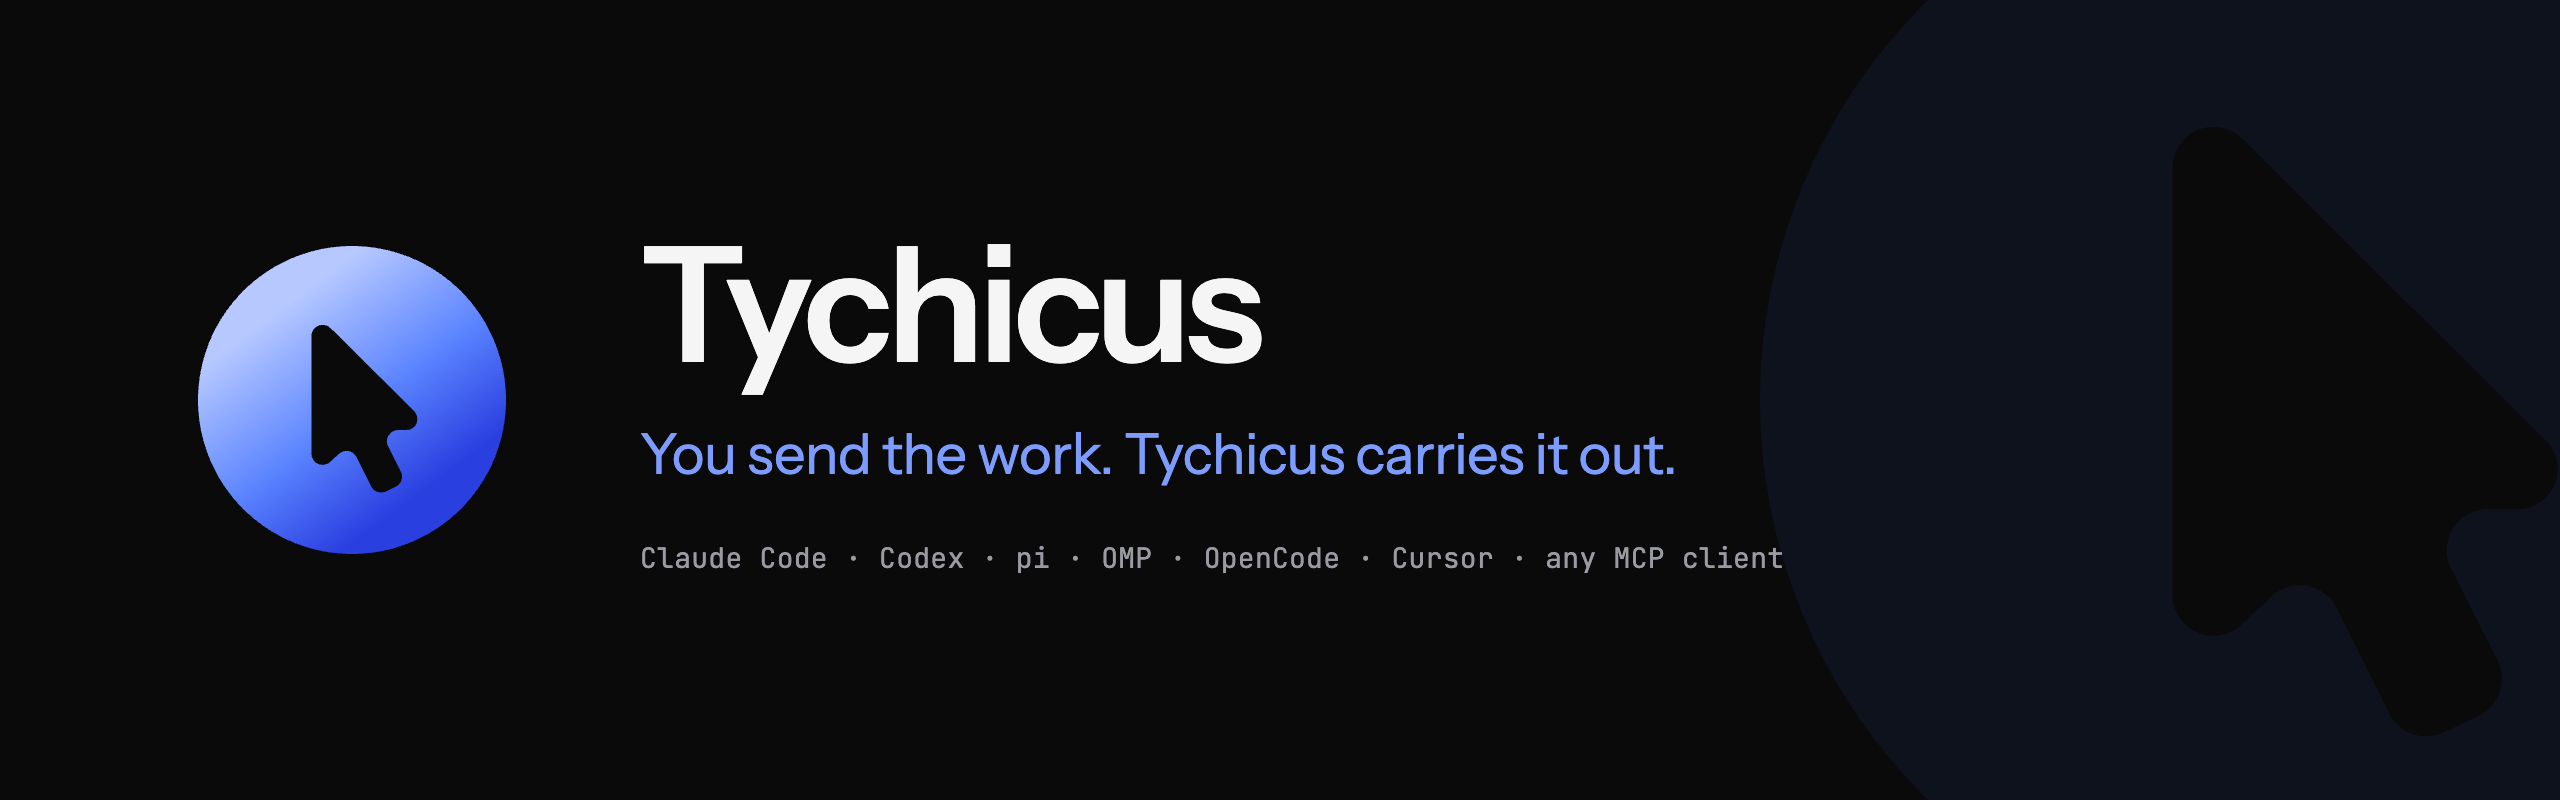
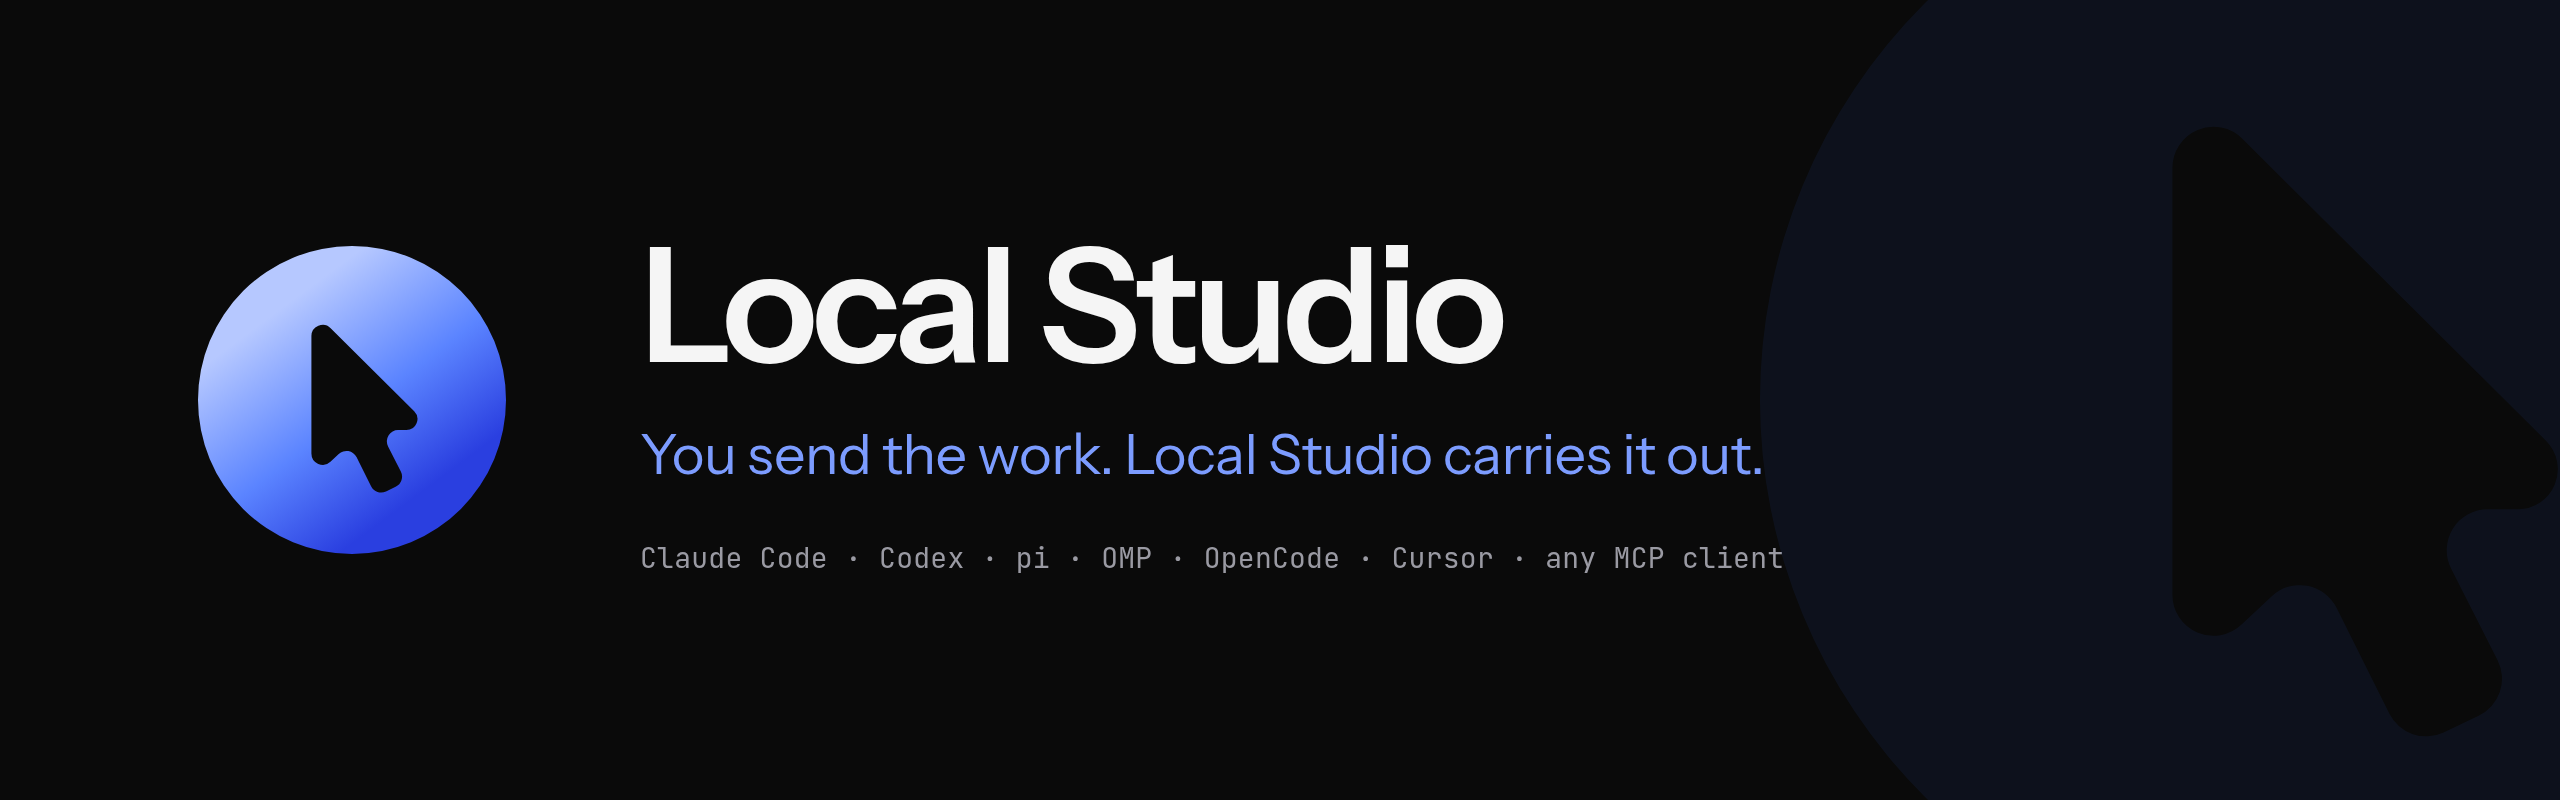
README and brand images say Local Studio

diff --git a/README.md b/README.md
@@ -1,21 +1,20 @@
-# Tychicus
+# Local Studio: browser and computer use
 
 [![CI](https://github.com/baney75/tychicus/actions/workflows/ci.yml/badge.svg?branch=main)](https://github.com/baney75/tychicus/actions/workflows/ci.yml)
 [![License: AGPL-3.0](https://img.shields.io/badge/license-AGPL--3.0-blue)](LICENSE)
 
-Tychicus gives AI agents browser use and computer use. It is a Chromium extension, a CLI helper
-and an MCP server. Claude Code, Codex, pi or any MCP client drives your real browser through it,
+This is the part of Local Studio that gives AI agents browser use and computer use: a Chromium
+extension, a CLI helper and an MCP server. Claude Code, Codex, pi or any MCP client drives your real browser through it,
 in background tabs of its own, while you keep working. The computer-use tools reach desktop apps
 through a platform driver.
 
-Tychicus works with or without Local Studio and ships three ways: as Local Studio's default
-plugin, as this Chrome extension, and as a standalone app. When Local Studio runs, the side panel
+It works with or without the Local Studio desktop app and ships three ways: as the app's default
+plugin, as this Chrome extension, and as a standalone helper. When the app runs, the side panel
 chats through its Eukhe daemon, on your local models and the subscriptions you signed in to there,
 without the extension holding any API key (see below). The rest of the CLI and the outside-agent
 tools work as they did in Polycarp.
 
-The name is Tychicus, Paul's courier in the New Testament (Ephesians 6:21-22, Colossians 4:7-8):
-the one who carries messages and does the errands.
+The command, the MCP server and the folders still use an earlier name, `tychicus`.
 
 ## How the panel reaches models
 
@@ -36,7 +35,7 @@ tool steps back to the panel. Stop sends Abort to that session.
   private folder, and only reads there run unasked (Eukhe's `shell.autoEffects`, for that session
   alone); the panel says no to every command and write. If Local Studio won't take the limit, the
   chat does not start.
-- **Only this extension.** The host answers only the pinned Tychicus extension ID and exits for
+- **Only this extension.** The host answers only the pinned Local Studio extension ID and exits for
   any other caller before it reads a message.
 - **When Local Studio is not running**, a chat on it says so and how to fix it (start Local
   Studio, or run `eukhe` in a terminal) within a few seconds, instead of waiting. Local Studio
@@ -48,7 +47,7 @@ tool steps back to the panel. Stop sends Abort to that session.
 
 Driving a consumer subscription (a chat plan you pay for as a person) through automation may
 break that provider's terms of service. Some providers allow it, some forbid it, and terms
-change. Tychicus does not decide this for you. Read your provider's terms and decide whether to
+change. Local Studio does not decide this for you. Read your provider's terms and decide whether to
 connect a subscription; API keys under a developer agreement are the safer route where terms
 are unclear.
 
@@ -77,13 +76,13 @@ release's own `tychicus install --release`, which checks again and registers the
 no sudo and refuses to run as root or administrator unless you pass `--allow-root`. On macOS and
 Linux it links `~/.local/bin/tychicus` to the installed release, so `tychicus` works in a new
 terminal; it says so when `~/.local/bin` isn't on your PATH or another `tychicus` comes first, and
-asks before replacing a `tychicus` there that isn't Tychicus's (without a terminal it leaves it and
+asks before replacing a `tychicus` there that isn't Local Studio's (without a terminal it leaves it and
 prints the `ln -sf` command).
 `TYCHICUS_VERSION=1.2.3` installs that release instead of the latest, and options after
 `sh -s --` go to the installer: `curl -fsSL <address above> | sh -s -- --local-studio`. Releases
 are built for macOS on Apple silicon, Linux x64 and Windows x64.
 
-Then load the extension as step 3 below says. Once Tychicus is listed on the Chrome Web Store,
+Then load the extension as step 3 below says. Once Local Studio is listed on the Chrome Web Store,
 that copy works too: its welcome screen shows the command for your computer with a Copy button,
 and shows the helper connected once the command has run.
 
@@ -141,12 +140,12 @@ claude mcp add --scope user tychicus -- tychicus mcp
 ```
 
 The extension ID (`igjafcggmahiboobmnhfkndodphjdnhg`) comes from the manifest key and
-differs from Polycarp's, and the native host is `com.tychicus.browser`, so Tychicus and Polycarp
+differs from Polycarp's, and the native host is `com.tychicus.browser`, so Local Studio and Polycarp
 can be installed side by side without either one answering for the other.
 
-### Tychicus keeps to its own files
+### Local Studio keeps to its own files
 
-Tychicus never writes to Polycarp's files. It has its own config folder (`~/.config/tychicus`),
+The helper never writes to Polycarp's files. It has its own config folder (`~/.config/tychicus`),
 data and cache folders, launchers (`tychicus`, `tychicus-host`), native host
 (`com.tychicus.browser`), socket folder (`/tmp/tychicus-bridge-<user>`), service names
 (`com.tychicus.serve`, `tychicus-serve.service` and so on) and MCP entry (`tychicus`). The npm
@@ -219,12 +218,12 @@ into a Polycarp folder. Tunnel credentials under a Polycarp folder are copied; o
 hostname, tunnel and sign-ins are kept, so the connector needs no change in claude.ai, ChatGPT or grok.com. Nothing under
 Polycarp's folders is changed or deleted.
 
-Then it swaps each service in turn: Polycarp's stops, Tychicus's starts and must answer (serve: `GET /mcp` on this
+Then it swaps each service in turn: Polycarp's stops, Local Studio's starts and must answer (serve: `GET /mcp` on this
 computer returns 401), or Polycarp's comes back, the copy is undone and the command exits 1 with the reason. On success
 Polycarp's plists move to `~/Library/LaunchAgents/retired-polycarp/` (Linux: its units are disabled, not deleted), and it
-reads back which services are loaded. It refuses when Tychicus already has remote state; `--force` replaces it after
-saving Tychicus's files to a `pre-import-<time>` folder. `tychicus install` prints a hint to run it when Polycarp has a
-`remote.json` and Tychicus doesn't.
+reads back which services are loaded. It refuses when Local Studio already has remote state; `--force` replaces it after
+saving Local Studio's files to a `pre-import-<time>` folder. `tychicus install` prints a hint to run it when Polycarp has a
+`remote.json` and Local Studio doesn't.
 
 ## Moved from Polycarp
 
@@ -245,5 +244,5 @@ built on his [pi](https://github.com/badlogic/pi-mono) and
 ## License
 
 [AGPL-3.0](LICENSE), unchanged from Polycarp's `browser/` folder and from upstream. If you run a
-modified Tychicus for others over a network, the AGPL asks you to offer them its source. The
+modified version for others over a network, the AGPL asks you to offer them its source. The
 Polycarp name and logo (in Polycarp's `brand/` folder) are not covered by this license.

diff --git a/media/brand/BRAND.md b/media/brand/BRAND.md
@@ -1,12 +1,11 @@
-# Tychicus brand
+# Local Studio browser and computer tools: brand
 
-**Tychicus** is Paul's courier in the New Testament (Ephesians 6:21-22, Colossians 4:7-8): the
-trusted one who carries the letters and does the errands. You send the work and it carries it out
-on your computer and in your browser. The brand should feel calm and capable, with the human in
-command. It is not an "autonomous AI agent".
+These are Local Studio's hands: you send the work and it carries it out on your computer and in
+your browser. The brand should feel calm and capable, with the human in command. It is not an
+"autonomous AI agent".
 
-Tychicus is part of the Local Studio family, so it uses Local Studio's colors and draws its mark the
-way Local Studio draws its own: a disc built from circles, with a shape cut out of it.
+The extension and helper are part of Local Studio, so they use its colors and draw their mark the
+way the desktop app draws its own: a disc built from circles, with a shape cut out of it.
 
 ## Mark
 
@@ -40,7 +39,7 @@ Rules:
 - Keep the mark one shape: no outlines, shadows or added symbols on it.
 - Don't rotate it. The pointer always points up and to the left.
 - Don't put it in Polycarp's olive or the old helm's brass. Never pair it with the Sitegeist orb,
-  badlogic's marks or Polycarp's helm; Tychicus credits them in words, not in pictures.
+  badlogic's marks or Polycarp's helm; Local Studio credits them in words, not in pictures.
 
 ## Palette
 
@@ -74,8 +73,8 @@ use these values; `tokens.ts` lifts accent text to 4.5:1 when a user picks anoth
 
 Both fonts are OFL-licensed and come from `@fontsource` packages in `site/`.
 
-The wordmark is "Tychicus" with a capital T, set in Instrument Sans semibold at -0.035em
-tracking. Write the name as Tychicus in prose and as `tychicus` for the command.
+The wordmark is "Local Studio", two words, set in Instrument Sans semibold at -0.035em
+tracking. Write the name as Local Studio in prose; the command is `tychicus` until it is renamed.
 
 ## Still to redo
 
